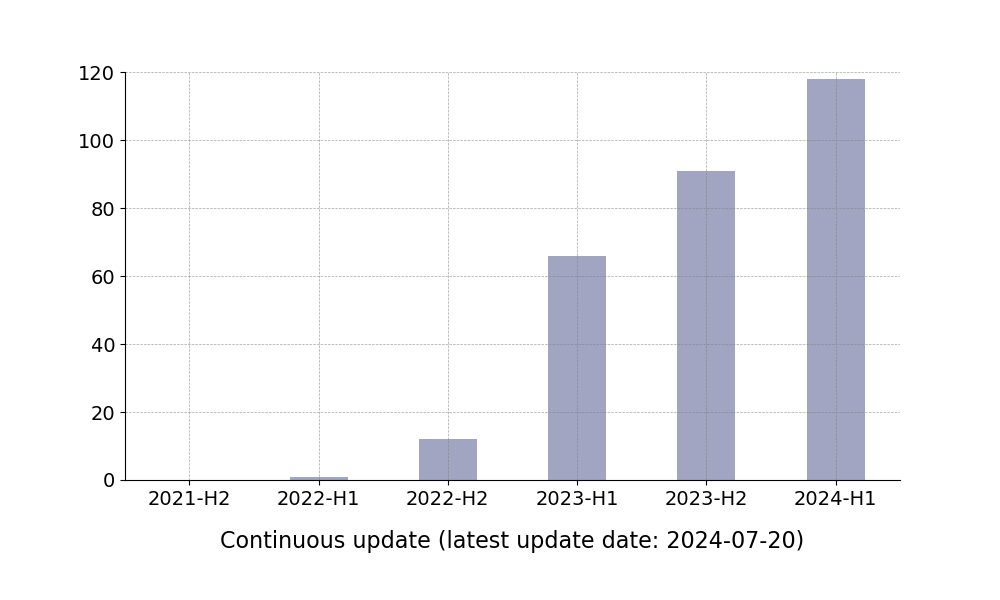
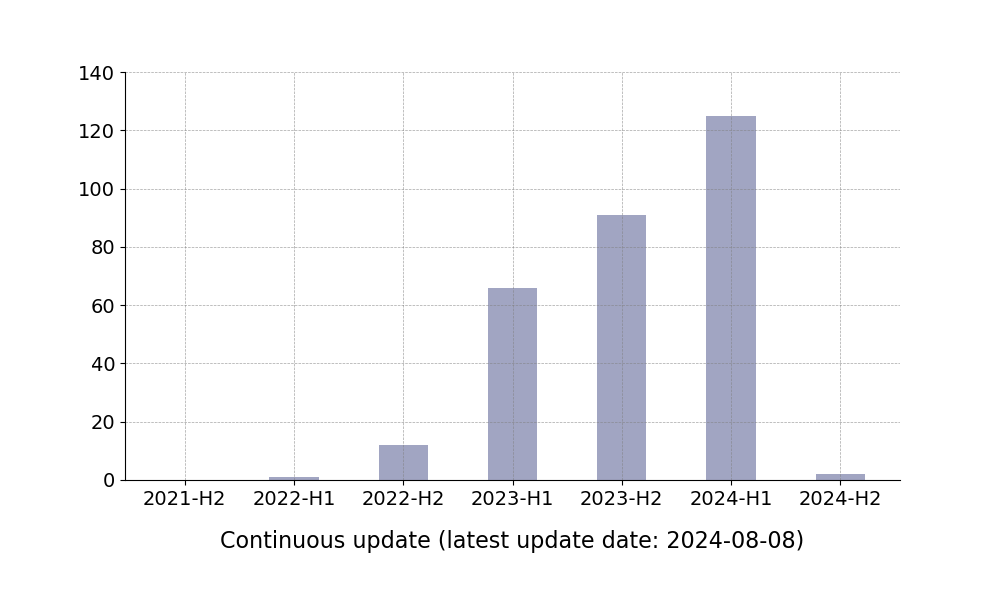
update 2024-08-08

diff --git a/README.md b/README.md
@@ -582,6 +582,10 @@ arXiv 2023. [[PDF](https://arxiv.org/abs/2306.00983)]
 
 
 #### 🍍Interaction-Driven Generation 
+**VirtualModel: Generating Object-ID-retentive Human-object Interaction Image by Diffusion Model for E-commerce Marketing.**<br>
+*Binghui Chen, Chongyang Zhong, Wangmeng Xiang, Yifeng Geng, Xuansong Xie.*<br>
+arXiv 2024. [[PDF](https://arxiv.org/abs/2405.09985)]
+
 **InteractDiffusion: Interaction Control in Text-to-Image Diffusion Models.**<br>
 *Jiun Tian Hoe, Xudong Jiang, Chee Seng Chan, Yap-Peng Tan, Weipeng Hu.*<br>
 arXiv 2023. [[PDF](https://arxiv.org/abs/2312.05849)]
@@ -1026,6 +1030,10 @@ arXiv 2022. [[PDF](https://arxiv.org/abs/2212.05032)]
 
 
 ### 🧁In-Context Generation
+**Analogist: Out-of-the-box Visual In-Context Learning with Image Diffusion Model.**<br>
+*Zheng Gu, Shiyuan Yang, Jing Liao, Jing Huo, Yang Gao.*<br>
+arXiv 2024. [[PDF](https://arxiv.org/abs/2405.10316)]
+
 **Improving In-Context Learning in Diffusion Models with Visual Context-Modulated Prompts.**<br>
 *Tianqi Chen, Yongfei Liu, Zhendong Wang, Jianbo Yuan, Quanzeng You, Hongxia Yang, Mingyuan Zhou.*<br>
 arXiv 2023. [[PDF](https://arxiv.org/abs/2312.01408)]
